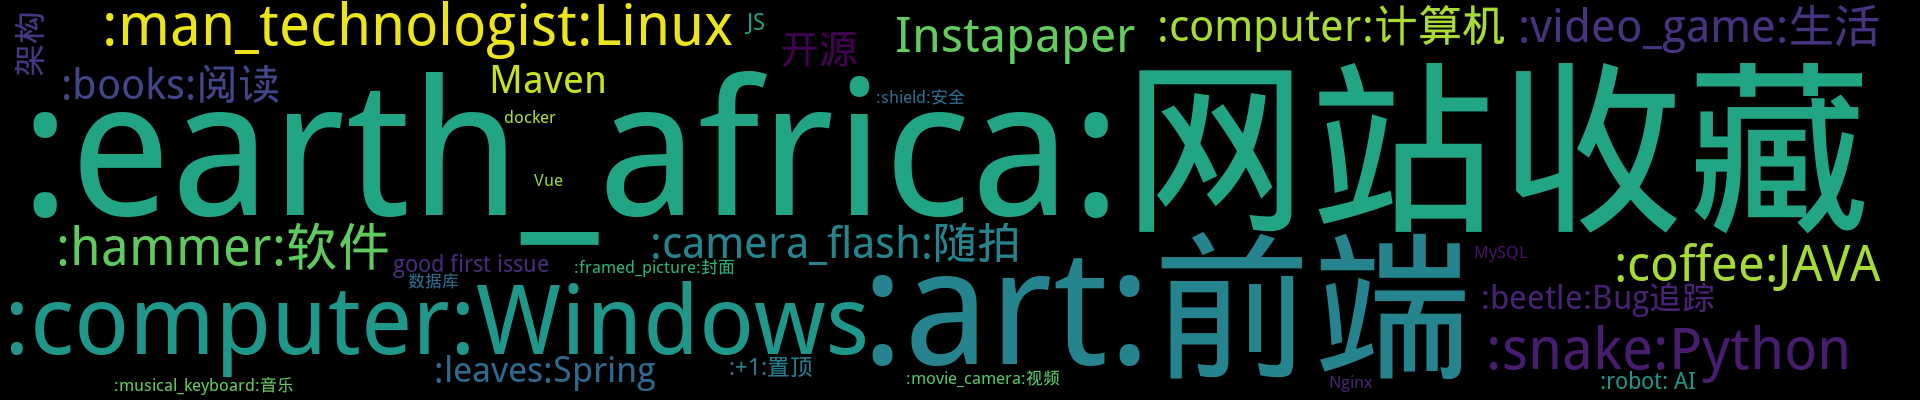
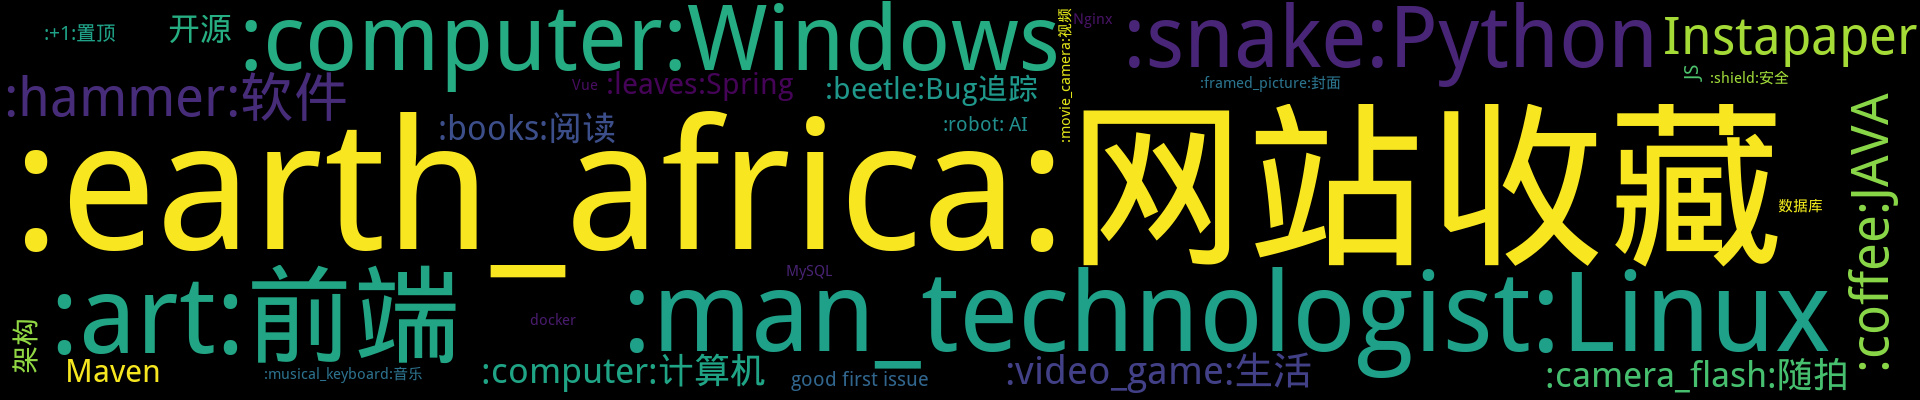
Update from Github Action

diff --git a/README.md b/README.md
@@ -3,7 +3,7 @@
 <p align='center'>
     <img src="https://badgen.net/badge/labels/30"/>
     <img src="https://badgen.net/github/issues/jwenjian/ghiblog"/>
-    <img src="https://badgen.net/badge/last-commit/2019-12-06 11:45:10"/>
+    <img src="https://badgen.net/badge/last-commit/2019-12-06 14:44:41"/>
     <img src="https://badgen.net/github/forks/jwenjian/ghiblog"/>
     <img src="https://badgen.net/github/stars/jwenjian/ghiblog"/>
     <img src="https://badgen.net/github/watchers/jwenjian/ghiblog"/>
@@ -39,6 +39,19 @@
 - [【Notion】博客(人工)同步到 Notion](https://github.com/jwenjian/ghiblog/issues/147)  <sup>1 :speech_balloon:</sup>  	 
 - [基于Github Action自动生成并更新GitHub Issue博客的ReadMe](https://github.com/jwenjian/ghiblog/issues/1)  <sup>13 :speech_balloon:</sup>  	 
 ## 最新 :new: 
+
+#### [解决Ubuntu执行sudo命令反应慢的问题](https://github.com/jwenjian/ghiblog/issues/149) <sup>0 :speech_balloon:</sup> 	 2019-12-06 14:43:57
+
+:label: : [:beetle:Bug追踪](https://github.com/jwenjian/ghiblog/labels/%3Abeetle%3ABug%E8%BF%BD%E8%B8%AA), [:man_technologist:Linux](https://github.com/jwenjian/ghiblog/labels/%3Aman_technologist%3ALinux)
+
+最近本地装了个Ubuntu1804 server， 但是发现只要是执行`sudo`的命令都反应特别慢， 哪怕是一个简单的 `sudo ls` 都要反应个一分钟左右。
+
+
+
+[更多>>>](https://github.com/jwenjian/ghiblog/issues/149)
+
+---
+
 
 #### [MySQL学习笔记一](https://github.com/jwenjian/ghiblog/issues/148) <sup>0 :speech_balloon:</sup> 	 2019-12-06 11:44:26
 
@@ -95,19 +108,6 @@
 ---
 
 
-#### [配置 apache maven resource plugin 的编码方式为UTF-8](https://github.com/jwenjian/ghiblog/issues/144) <sup>0 :speech_balloon:</sup> 	 2019-11-26 11:03:46
-
-:label: : [:coffee:JAVA](https://github.com/jwenjian/ghiblog/labels/%3Acoffee%3AJAVA), [Maven](https://github.com/jwenjian/ghiblog/labels/Maven)
-
-配置 apache maven resource plugin 的编码方式为UTF-8
-
-
-
-[更多>>>](https://github.com/jwenjian/ghiblog/issues/144)
-
----
-
-
 ## 分类  :card_file_box: 
 
 <details open="open">
@@ -149,8 +149,9 @@
 </details>
 
 <details>
-<summary>:beetle:Bug追踪	<sup>5:newspaper:</sup></summary>
+<summary>:beetle:Bug追踪	<sup>6:newspaper:</sup></summary>
 
+- [解决Ubuntu执行sudo命令反应慢的问题](https://github.com/jwenjian/ghiblog/issues/149)  <sup>0 :speech_balloon:</sup>  	 
 - [解决: ssh 远程登录虚拟机 Linux 速度很慢的问题](https://github.com/jwenjian/ghiblog/issues/136)  <sup>0 :speech_balloon:</sup>  	 
 - [PlantUML Graphviz 安装](https://github.com/jwenjian/ghiblog/issues/126)  <sup>0 :speech_balloon:</sup>  	 
 - [Permission denied when running npm install](https://github.com/jwenjian/ghiblog/issues/90)  <sup>0 :speech_balloon:</sup>  	 
@@ -312,8 +313,9 @@
 </details>
 
 <details>
-<summary>:man_technologist:Linux	<sup>15:newspaper:</sup></summary>
+<summary>:man_technologist:Linux	<sup>16:newspaper:</sup></summary>
 
+- [解决Ubuntu执行sudo命令反应慢的问题](https://github.com/jwenjian/ghiblog/issues/149)  <sup>0 :speech_balloon:</sup>  	 
 - [解决: ssh 远程登录虚拟机 Linux 速度很慢的问题](https://github.com/jwenjian/ghiblog/issues/136)  <sup>0 :speech_balloon:</sup>  	 
 - [Docker配置网易云仓库地址](https://github.com/jwenjian/ghiblog/issues/135)  <sup>0 :speech_balloon:</sup>  	 
 - [解决：CentOS7 - Cannot find a valid baseurl for repo: base/7/x86_6](https://github.com/jwenjian/ghiblog/issues/134)  <sup>0 :speech_balloon:</sup>  	 
